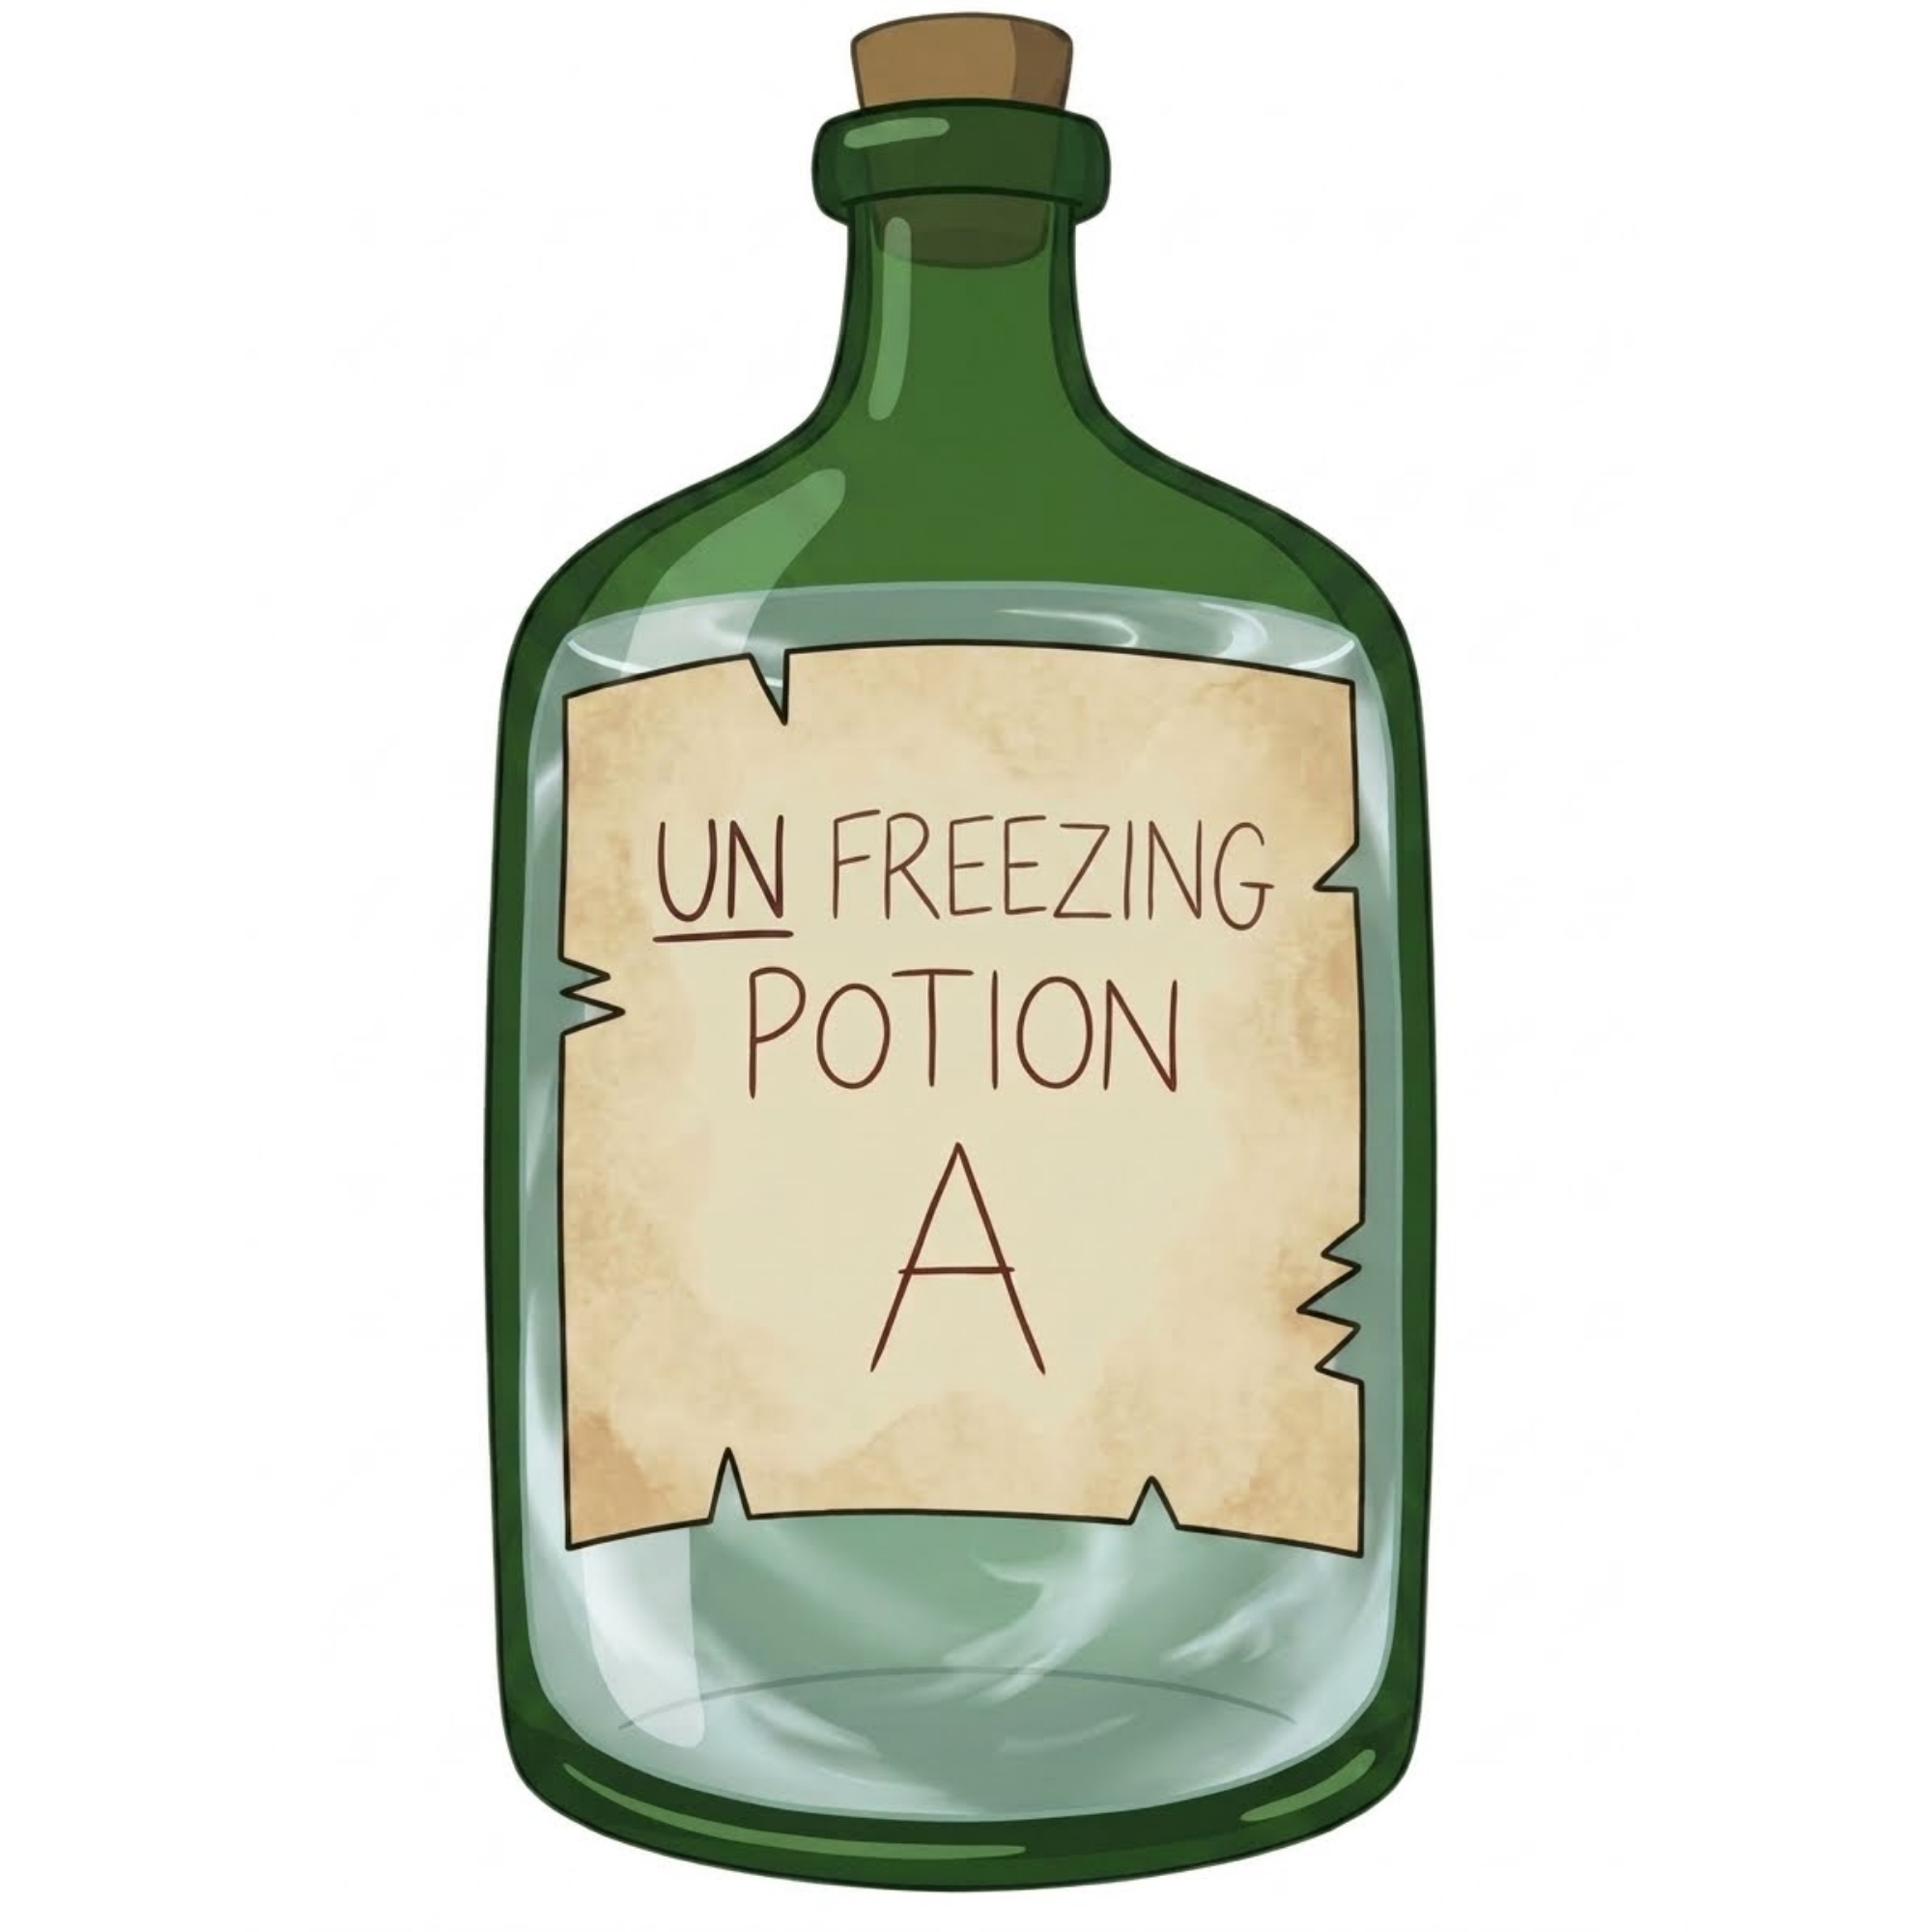
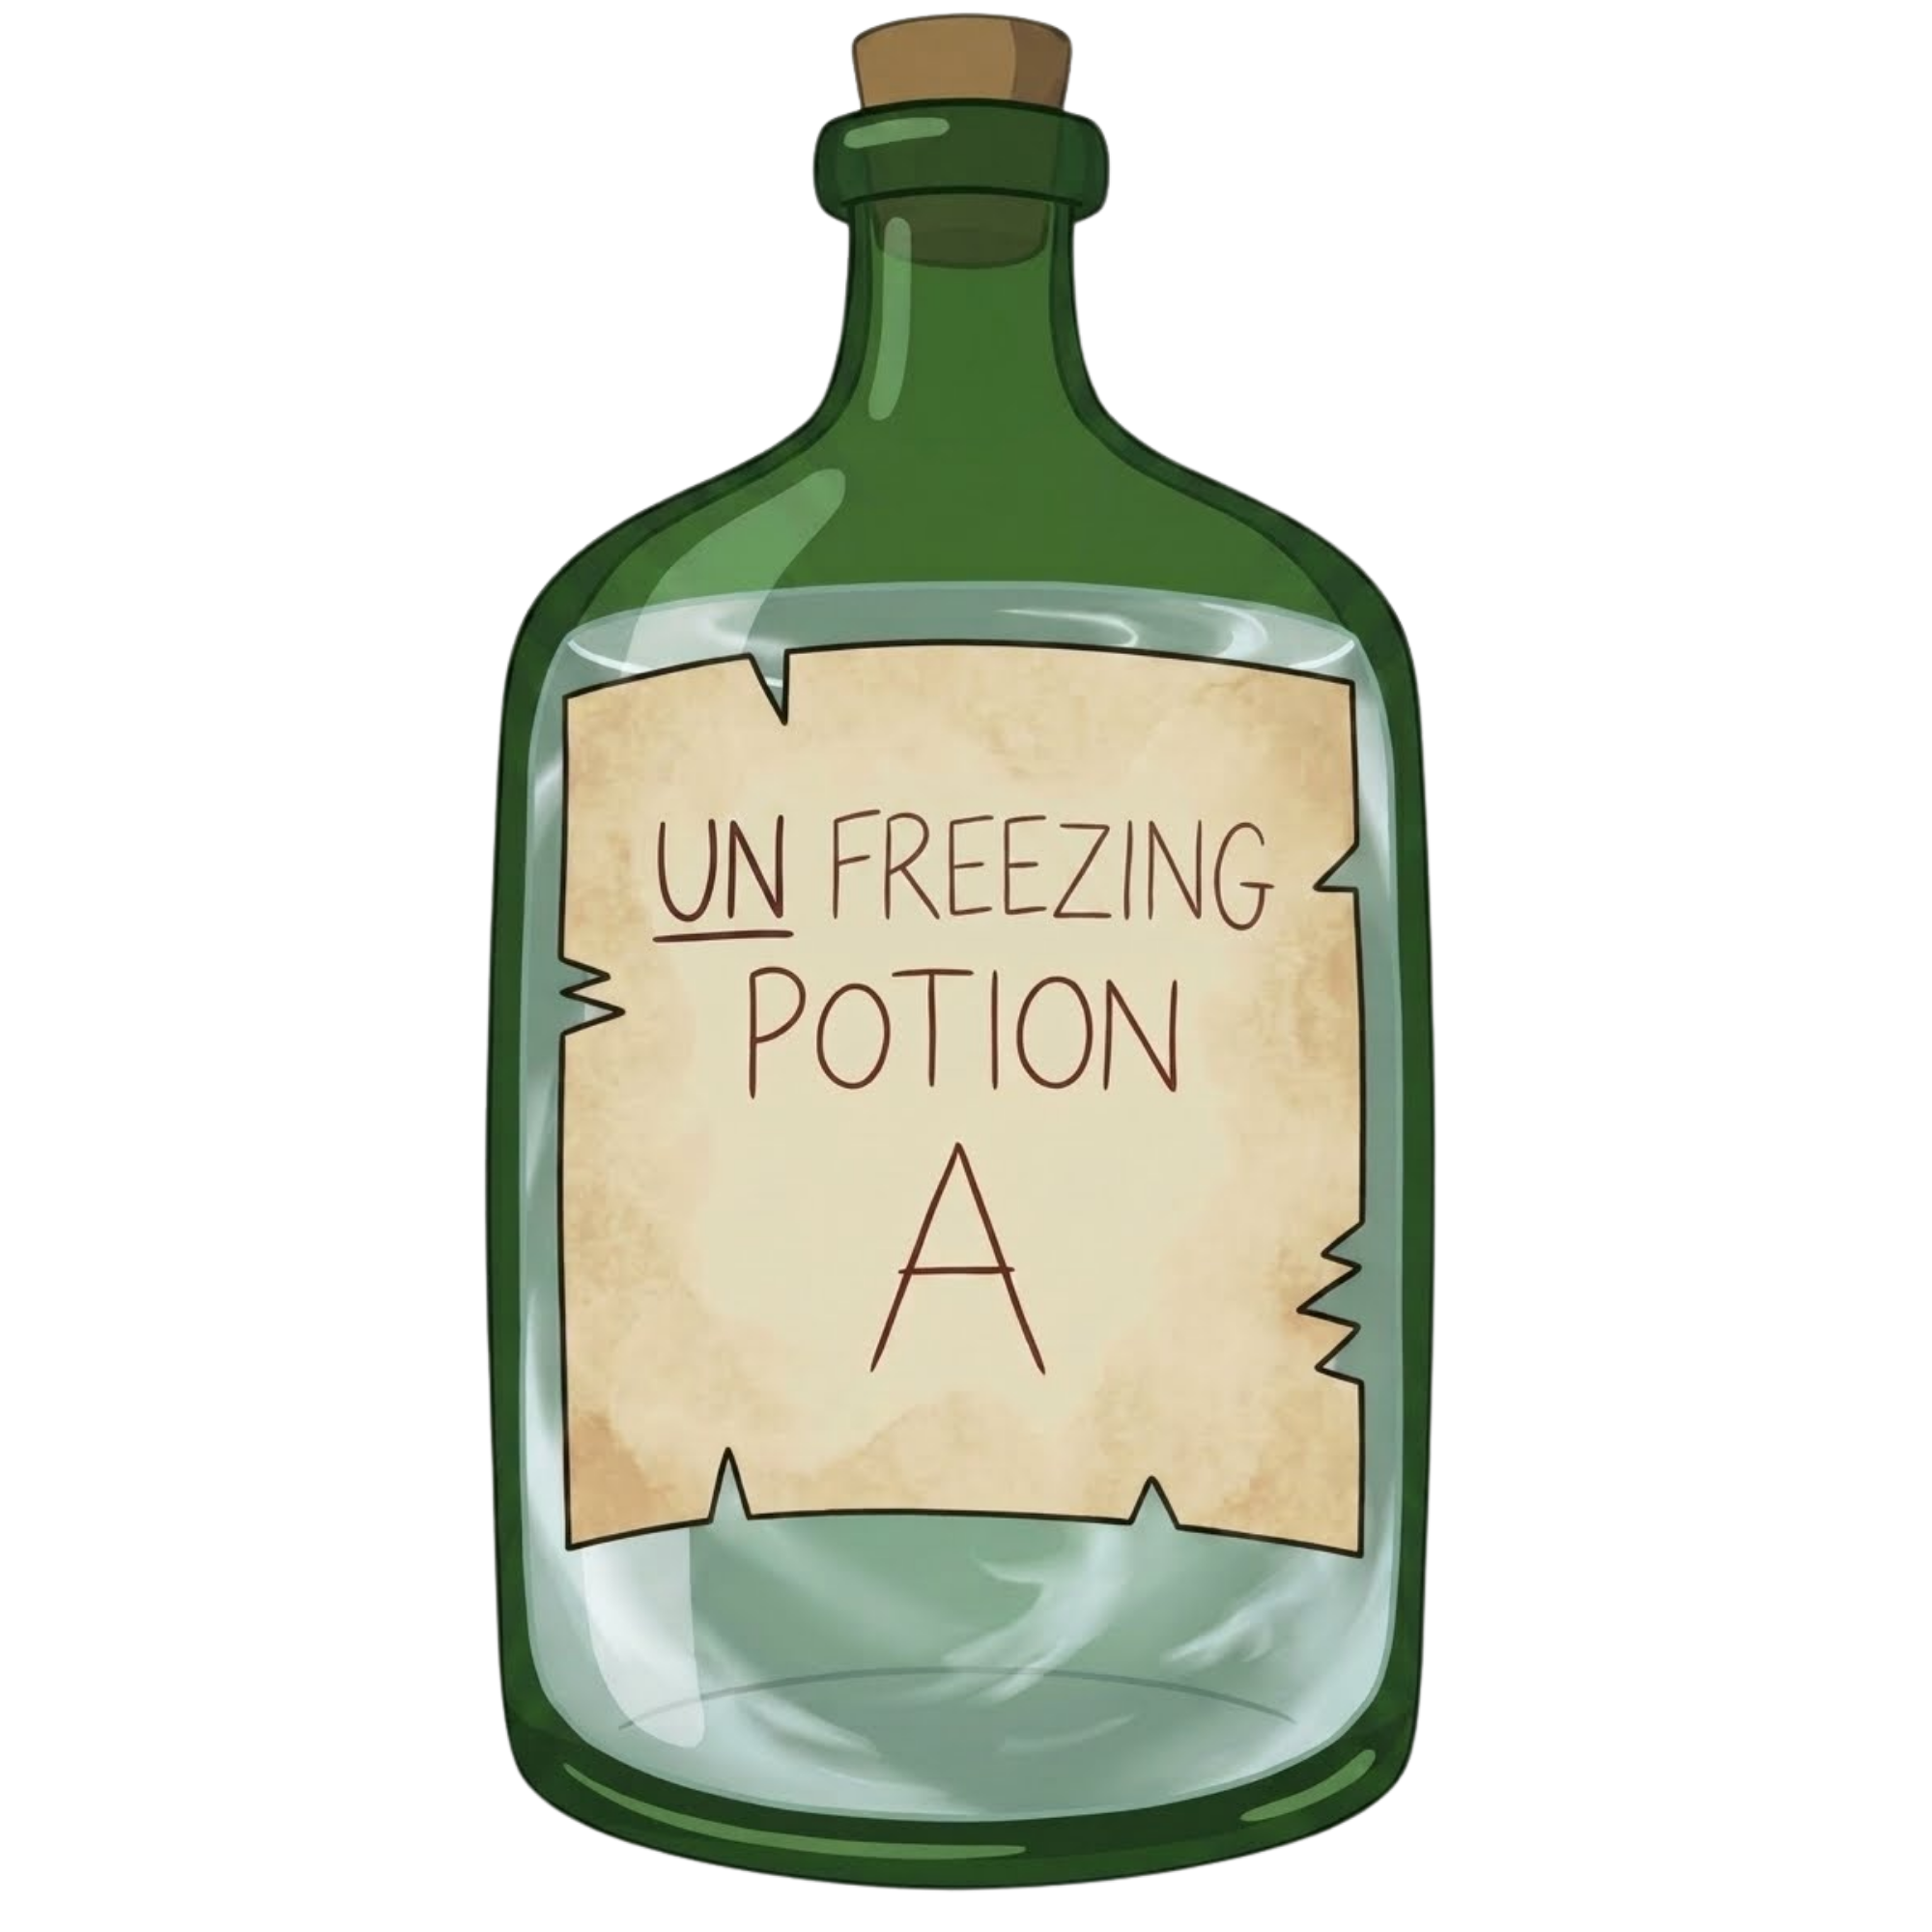
feat: bind custom potion png vectors and lock card height constraints

diff --git a/src/app/product-card/product-card.css b/src/app/product-card/product-card.css
@@ -12,6 +12,7 @@
     box-shadow: 0 8px 24px rgba(0, 0, 0, 0.2);
     transition: transform 0.2s cubic-bezier(0.175, 0.885, 0.32, 1.275), box-shadow 0.2s ease;
     box-sizing: border-box;
+    height: 380px; /* Locked explicit height parameter to keep all cards uniform */
   }
   
   .product-card:hover {
@@ -39,16 +40,30 @@
   }
   
   .item-graphic-container {
-    height: 90px;
+    height: 100px;
     display: flex;
     align-items: center;
     justify-content: center;
     margin-bottom: 12px;
   }
   
+  /* Clear scaling configurations for your custom potion png vector images */
+  .catalog-potion-image {
+    max-width: 100%;
+    max-height: 90px;
+    object-fit: contain;
+    filter: drop-shadow(0 4px 8px rgba(0, 0, 0, 0.15));
+  }
+  
   .fallback-emoji {
     font-size: 3.5rem;
     filter: drop-shadow(0 0 8px rgba(255,255,255,0.4));
+  }
+  
+  .item-body {
+    flex: 1;
+    display: flex;
+    flex-direction: column;
   }
   
   h3 {
@@ -61,6 +76,7 @@
   
   .category-badge {
     display: inline-block;
+    align-self: flex-start;
     background: rgba(255, 255, 255, 0.2);
     color: #fffdf4;
     font-size: 0.75rem;
@@ -77,6 +93,10 @@
     line-height: 1.4;
     margin: 0 0 16px 0;
     text-shadow: 1px 1px 2px rgba(0, 0, 0, 0.5);
+    display: -webkit-box;
+    -webkit-line-clamp: 3; /* Clips description blocks to exactly 3 lines max */
+    -webkit-box-orient: vertical;
+    overflow: hidden;
   }
   
   .card-footer-row {

diff --git a/src/app/services/kiosk-store.ts b/src/app/services/kiosk-store.ts
@@ -19,13 +19,13 @@ export interface CartItem extends ShopItem {
 })
 export class KioskStoreService {
   private itemsState = signal<ShopItem[]>([
-    // --- POTIONS (6 Items Total) ---
-    { id: 1, name: 'Lumpy Space Serum', description: 'Gives your body a fresh, floating, sassy posture.', price: 150, category: 'Potions', imageUrl: '🟣' },
-    { id: 2, name: 'Marceline’s Red Brew', description: 'Freshly drained strawberry shade juice. Highly refreshing.', price: 80, category: 'Potions', imageUrl: '🧃' },
-    { id: 3, name: 'Flame Core Elixir', description: 'Provides temporary total protection against Fire Kingdom heat.', price: 450, category: 'Potions', imageUrl: '🔥' },
-    { id: 4, name: 'Nightosphere Juice', description: 'Extracted from Hunson Abadeer’s private, demonic reserves.', price: 700, category: 'Potions', imageUrl: '🧪', isRare: true },
-    { id: 5, name: 'PB’s Zombie Serum', description: 'Candy reanimation formula. Use with extreme caution.', price: 950, category: 'Potions', imageUrl: '🟢' },
-    { id: 16, name: 'Ice Kingdom Draft', description: 'Chills your core to grant temporary frost immunity.', price: 200, category: 'Potions', imageUrl: '❄️' }, // NEW ITEM
+    // --- POTIONS (6 Items Total Linked to Local Images) ---
+    { id: 1, name: 'Freezing Potion', description: 'Instantly flash-freezes targets or liquid surfaces on contact.', price: 150, category: 'Potions', imageUrl: 'freezing-potion.png' },
+    { id: 2, name: 'Instant Bath Serum', description: 'Cleanses off grime, mud, and monster scents in a quick bubble snap.', price: 80, category: 'Potions', imageUrl: 'instant-bath-serum.png' },
+    { id: 3, name: 'Paralyzing Potion', description: 'Fizzes intensely, temporarily freezing motor muscles on impact.', price: 450, category: 'Potions', imageUrl: 'paralyzing-potion.png' },
+    { id: 4, name: 'Stone Skin Potion', description: 'Hardens your epidermis into crystal granite structure to absorb heavy attacks.', price: 700, category: 'Potions', imageUrl: 'stone-skin-potion.png', isRare: true },
+    { id: 5, name: 'Twinkling Eye Potion', description: 'Illuminates dark caves and reveals hidden traps or invisible objects.', price: 950, category: 'Potions', imageUrl: 'twinkling-eye-potion.png' },
+    { id: 16, name: 'Unfreezing Potion', description: 'Melts ice structures immediately and restores warmth to frostbitten limbs.', price: 200, category: 'Potions', imageUrl: 'unfreezing-potion.png' },
 
     // --- WEAPONS (6 Items Total) ---
     { id: 6, name: 'Demon Blood Sword', description: 'Forged by Joshua. Feels rugged and dangerously cold.', price: 2500, category: 'Weapons', imageUrl: '🗡️', isRare: true },
@@ -33,7 +33,7 @@ export class KioskStoreService {
     { id: 8, name: 'The Grass Sword', description: 'A cursed, bound blade that integrates directly with your arm.', price: 1800, category: 'Weapons', imageUrl: '🌱' },
     { id: 9, name: 'Marceline’s Axe Bass', description: 'Family heirloom modified into a rockin’ weapon.', price: 3200, category: 'Weapons', imageUrl: '🎸', isRare: true },
     { id: 10, name: 'Jake’s Spiked Mace', description: 'Formed directly from Jake’s shape-shifted magical fist.', price: 600, category: 'Weapons', imageUrl: '🔨' },
-    { id: 17, name: 'Root Sword', description: 'Finn’s natural wood blade with a razor sharp grass edge.', price: 500, category: 'Weapons', imageUrl: '🪵' }, // NEW ITEM
+    { id: 17, name: 'Root Sword', description: 'Finn’s natural wood blade with a razor sharp grass edge.', price: 500, category: 'Weapons', imageUrl: '🪵' },
 
     // --- ENCHANTED CLOTHING (6 Items Total) ---
     { id: 11, name: 'The Ice King’s Crown', description: 'Grants infinite frost magic at the cost of your sanity.', price: 9999, category: 'Enchanted Clothing', imageUrl: '👑', isRare: true },
@@ -41,7 +41,7 @@ export class KioskStoreService {
     { id: 13, name: 'Wizard City Robes', description: 'Standard initiates garb embedded with basic defense runes.', price: 400, category: 'Enchanted Clothing', imageUrl: '🥋' },
     { id: 14, name: 'Marceline’s Sun Hat', description: 'Enchanted straw brim that blocks 100% of deadly UV light.', price: 250, category: 'Enchanted Clothing', imageUrl: '👒' },
     { id: 15, name: 'Candy Royal Cape', description: 'Worn by Princess Bubblegum’s inner guard. Very pristine.', price: 800, category: 'Enchanted Clothing', imageUrl: '🧣' },
-    { id: 18, name: 'Jake’s Magical Sweater', description: 'Hand-knit by Bubblegum. Stretches dynamically with your size.', price: 1200, category: 'Enchanted Clothing', imageUrl: '🧶' } // NEW ITEM
+    { id: 18, name: 'Jake’s Magical Sweater', description: 'Hand-knit by Bubblegum. Stretches dynamically with your size.', price: 1200, category: 'Enchanted Clothing', imageUrl: '🧶' }
   ]);
 
   private cartState = signal<CartItem[]>([]);

diff --git a/src/app/product-card/product-card.html b/src/app/product-card/product-card.html
@@ -4,7 +4,11 @@
     }
     
     <div class="item-graphic-container">
-      <span class="fallback-emoji">{{ item.imageUrl }}</span>
+      @if (item.imageUrl.endsWith('.png')) {
+        <img [src]="item.imageUrl" [alt]="item.name" class="catalog-potion-image">
+      } @else {
+        <span class="fallback-emoji">{{ item.imageUrl }}</span>
+      }
     </div>
     
     <div class="item-body">